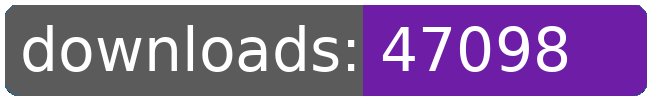
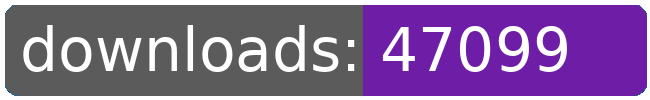
dl log written

Changed region(s): [[0.8, 0.3, 0.8923, 0.72]]

diff --git a/README.md b/README.md
@@ -21,8 +21,8 @@
 		<td>3280</td>
 		<td>3301</td>
 		<td>3325</td>
-		<td>3332</td>
-		<td>+ 7</td>
+		<td>3333</td>
+		<td>+ 8</td>
 	</tr>
 	<tr>
 		<td>aberrant.kahet.outfitter</td>
@@ -274,8 +274,8 @@
 		<td></td>
 		<td></td>
 		<td></td>
-		<td>47098</td>
-		<td>150</td>
+		<td>47099</td>
+		<td>151</td>
 	</tr>
 </table>
 </sub></sup>
@@ -322,8 +322,8 @@
 		<td>3280</td>
 		<td>3301</td>
 		<td>3325</td>
-		<td>3332</td>
-		<td>+ 7</td>
+		<td>3333</td>
+		<td>+ 8</td>
 	</tr>
 	<tr>
 		<td>capture.archons</td>
@@ -553,8 +553,8 @@
 		<td></td>
 		<td></td>
 		<td></td>
-		<td>47098</td>
-		<td>150</td>
+		<td>47099</td>
+		<td>151</td>
 	</tr>
 </table>
 </sub></sup>
